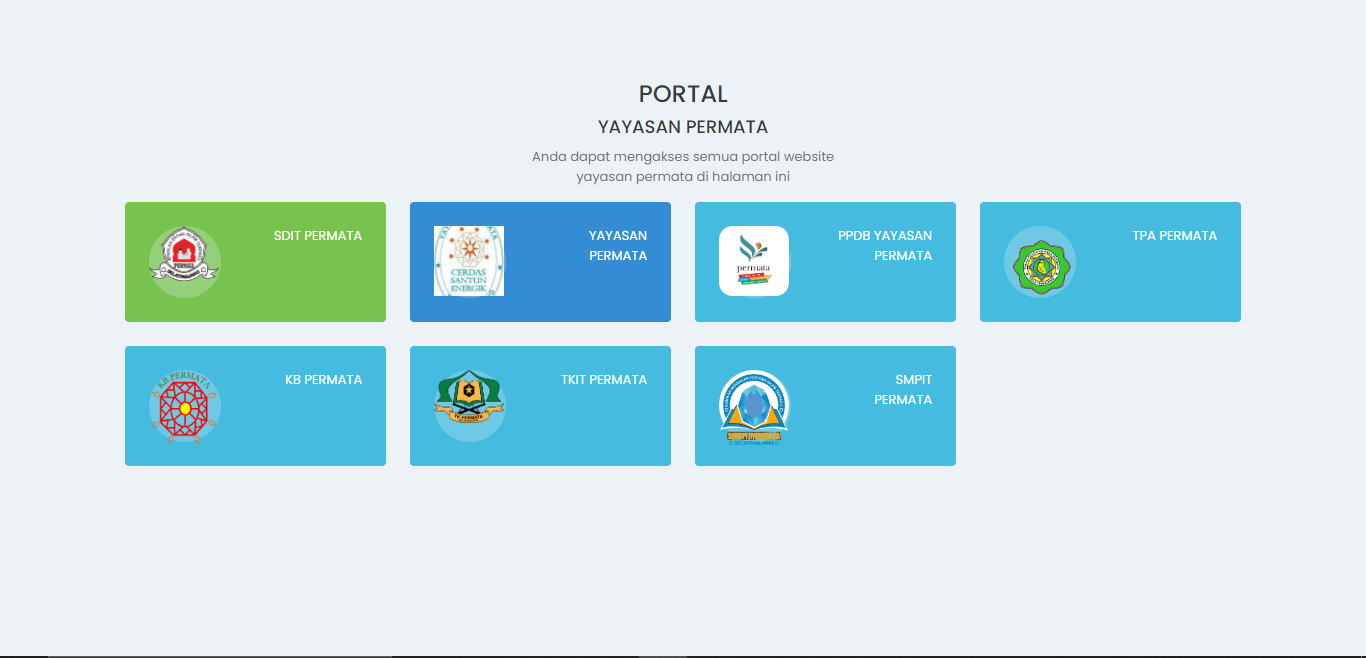
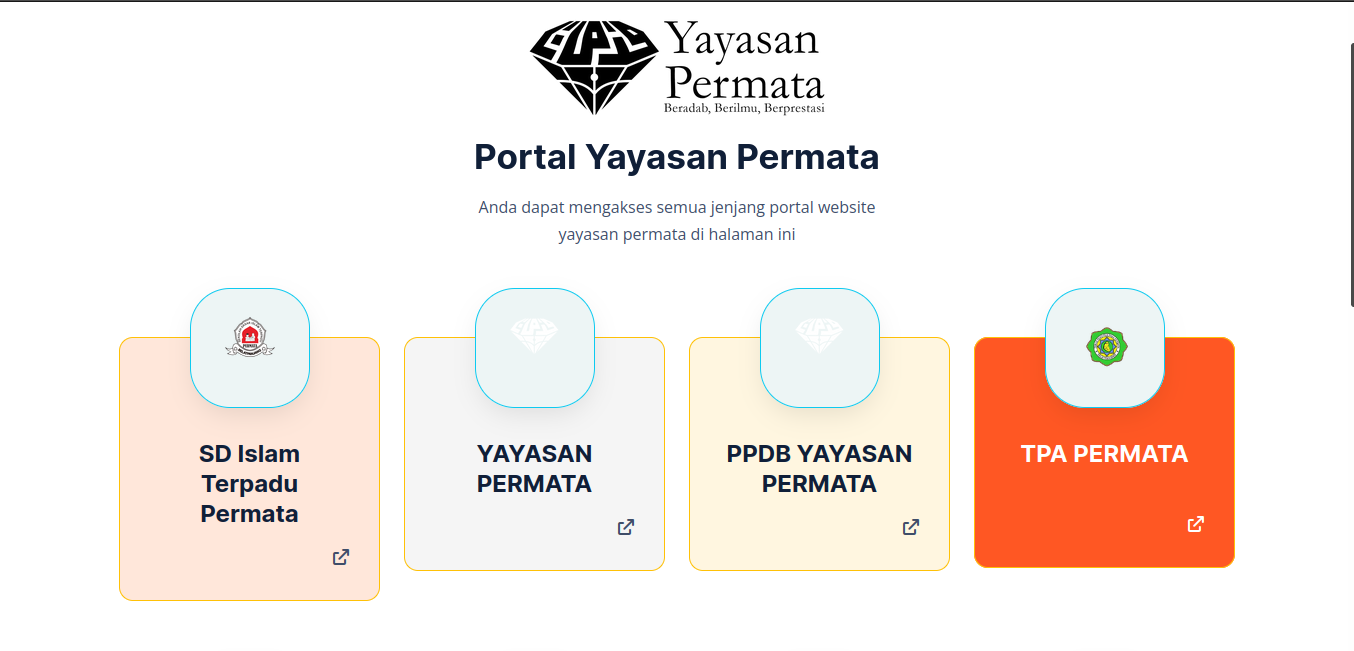
update card project dan footer

diff --git a/components/footer.tsx b/components/footer.tsx
@@ -1,41 +1,52 @@
+import { Heart } from "lucide-react";
+import { SiTelegram } from "react-icons/si";
+
 export default function Footer() {
-    return (
-        <section className="relative pt-20 pb-8 overflow-hidden">
-            <img className="absolute top-0 left-0 min-w-max xs:min-w-0 w-112 xs:w-full h-full" src="/orange-background.png" alt="" />
-            <div className="relative container px-4 mx-auto">
-                <div className="max-w-3xl mb-24 sm:mb-52 pr-8 sm:pr-0">
-                    <h1 className="font-heading text-4xl xs:text-5xl md:text-6xl font-semibold text-white mb-20">
-                        <span>Join &amp; Let&apos;s Build</span>
-                        <span className="font-serif italic">Magnificent</span>
-                        <span>Products</span>
-                    </h1>
-                    <div className="sm:flex items-center">
-                        <div className="sm:flex mb-6 sm:mb-0 sm:mr-12 items-center">
-                            <div className="flex mb-3 sm:mb-0 sm:mr-3 items-center justify-center w-12 h-12 bg-white rounded-full">
-                                <img src="/map-pin.svg" alt="" />
-                            </div>
-                            <div>
-                                <span className="block text-orange-50">1929, Bancangan, Sambit,</span>
-                                <span className="block text-orange-50">Wakanda Kidul</span>
-                            </div>
-                        </div>
-                        <div className="sm:flex items-center">
-                            <div className="flex mb-3 sm:mb-0 sm:mr-3 items-center justify-center w-12 h-12 bg-white rounded-full">
-                                <img src="/envelope.svg" alt="" />
-                            </div>
-                            <div>
-                                <span className="block text-orange-50">hello@yourdomain.com</span>
-                            </div>
-                        </div>
-                    </div>
-                </div>
-                <div className="pt-10 border-t-2 border-orange-400 border-opacity-50">
-                    <div className="sm:flex items-center justify-between">
-                        <span className="inline-block mb-4 sm:mb-0 text-gray-50">© All rights reserved</span>
-                        <div className="sm:flex mb-6 sm:mb-0 items-center"><a className="inline-block mr-6 sm:mr-12 text-orange-200 hover:text-orange-100" href="#">Terms &amp; Conditions</a><a className="inline-block text-orange-200 hover:text-orange-100" href="#">Privacy Policy</a></div>
-                    </div>
-                </div>
+  return (
+    <section className="relative pt-20 pb-8 overflow-hidden">
+      {/* <img className="absolute top-0 left-0 min-w-max xs:min-w-0 w-112 xs:w-full h-full" src="/orange-background.png" alt="" /> */}
+      <div className="relative container px-4 mx-auto">
+        <div className="max-w-3xl mb-24 sm:mb-52 pr-8 sm:pr-0">
+          <h1 className="font-heading text-4xl xs:text-5xl md:text-6xl font-semibold text-white mb-20">
+            <span>Contact Me</span>
+            <br />
+            <span className="font-serif italic">Anda Butuh Aplikasi ?</span>
+            <br />
+            <span>Mari Diskusi Sekarang</span>
+          </h1>
+          <div className="sm:flex items-center">
+            <div className="sm:flex mb-6 sm:mb-0 sm:mr-12 items-center">
+              <div className="flex mb-3 sm:mb-0 sm:mr-3 items-center justify-center w-12 h-12 bg-white rounded-full">
+                <img src="/map-pin.svg" alt="" />
+              </div>
+              <div>
+                <span className="block text-orange-50">
+                  Jalan Perumbi Gg. Antara RT 002 RW 002 Kota Selatpanjang
+                </span>
+                <span className="block text-orange-50">
+                  Kab.Kep. Meranti, Riau, Indonesia
+                </span>
+              </div>
             </div>
-        </section>
-    );
+            <div className="sm:flex items-center">
+              <div className="flex mb-3 sm:mb-0 sm:mr-3 items-center justify-center w-12 h-12 bg-white rounded-full">
+                <SiTelegram className="w-10 h-10 text-blue-700" />
+              </div>
+              <div>
+                <span className="block text-orange-50">@MisArianto</span>
+              </div>
+            </div>
+          </div>
+        </div>
+        <div className="pt-10 border-t-2 border-orange-400 border-opacity-50">
+          <div className="flex items-center justify-center">
+            <span className="text-gray-50">
+              Created with <Heart className="text-red-500 inline-block" /> Mis
+              Arianto
+            </span>
+          </div>
+        </div>
+      </div>
+    </section>
+  );
 }

diff --git a/components/project.tsx b/components/project.tsx
@@ -1,24 +1,72 @@
 import { MoveRight } from "lucide-react";
 import Image from "next/image";
 import Link from "next/link";
-import CardCertificate from "./card-certificate";
+import CardProject from "./card-project";
 
 export default function Project() {
 
   const polygonPoints =
     "63.1% 29.6%, 100% 17.2%, 76.7% 3.1%, 48.4% 0.1%, 44.6% 4.8%, 54.5% 25.4%, 59.8% 49.1%, 55.3% 57.9%, 44.5% 57.3%, 27.8% 48%, 35.1% 81.6%, 0% 97.8%, 39.3% 100%, 35.3% 81.5%, 97.2% 52.8%, 63.1% 29.6%";
 
-  const certificats: {
+  const projects: {
     title: string;
     href: string;
     gambar: string;
     description: string;
   }[] = [
     {
-      title: "Teknik Ethical Hacking dan Mengatasi Peretasan IT menggunakan Ilmu Ethical Hacking bagi Cyber Security Specialist, Pentester dan White Hat Hacker",
-      href: "/certificate/2022/how-to-attract-more-traffic-to-our-website",
-      gambar: "/img/certificate/cyber1.jpg",
-      description: "Teknik Ethical Hacking dan Mengatasi Peretasan IT menggunakan Ilmu Ethical Hacking bagi Cyber Security Specialist, Pentester dan White Hat Hacker",
+      title: "E-Planning",
+      href: "https://sipd.merantikab.go.id/e-planning/",
+      gambar: "/img/apps/e-planning.png",
+      description: "Aplikasi yang menginovasi proses musrenbang kelurahan, musrenbang kecamatan, forum Organisasi Perangkat Daerah (OPD), pokok-pokok pikiran dewan, musrenbang Kabupaten/Kota, hingga terbentuk rancangan RKPD yang lebih transparan, cepat, terintegrasi, konsisten dan sesuai dengan aturan yang berlaku.",
+    },
+    {
+      title: "DIKEMAS",
+      href: "https://dikemas.merantikab.go.id/",
+      gambar: "/img/apps/dikemas.png",
+      description: "Survei Kepuasan Masyarakat (SKM) adalah kegiatan pengukuran secara komprehensif tingkat kepuasan masyarakat terhadap kualitas layanan yang diberikan oleh penyelenggara pelayanan publik. Indeks Kepuasan Masyarakat (IKM) adalah hasil pengukuran dari kegiatan Survei Kepuasan Masyarakat berupa angka.",
+    },
+    {
+      title: "Smart City Meranti",
+      href: "https://smartcity.merantikab.go.id/",
+      gambar: "/img/apps/smartcity.png",
+      description: "SmartCity Meranti berbasis GIS (Geographic Information System) atau sistem informasi geografis adalah alat berbasis komputer untuk memetakan dan menganalisis hal-hal yang ada dan peristiwa-peristiwa yang terjadi di bumi. Teknologi GIS mengintegrasikan database umum dengan operasi seperti kueri dan analisis statistik dengan visualisasi unik. GIS juga dapat menampilkan aspek geografis serta manfaat analisis yang ditawarkan oleh peta.",
+    },
+    {
+      title: "E-P3KE",
+      href: "https://ep3ke.merantikab.go.id/",
+      gambar: "/img/apps/epke3.png",
+      description: "Aplikasi Pengukuran dan pengambil kebijakan terhadap kemiskinan ekstrim yang berbasis GIS sehingga terlihat peningkatan dan penurunan Miskin Ekstrim dari hasil analisa menggunakan sistem EP3KE, hasil analisa dari sistem ini bisa menghasilkan sebaran desa yang masih tinggi angka miskin ekstrim serta melihat hasil evaluasi anggaran sudah tepat sasaran atau belum dari realisasi anggaran yang sudah tersedia",
+    },
+    {
+      title: "YAYASAN PERMATA",
+      href: "https://yayasanpermata.com/",
+      gambar: "/img/apps/yayasanpermata.png",
+      description: "Portal Yayasan, Sekolah, PPDB, SPP, Absensi, dan Penggajian",
+    },
+    {
+      title: "E-Sakip",
+      href: "http://e-sakip.merantikab.go.id/",
+      gambar: "/img/apps/e-sakip.png",
+      description: "Sistem Akuntabilitas Kinerja Instansi Permerintah Daerah",
+    },
+    {
+      title: "SITAMAN",
+      href: "http://sitaman.merantikab.go.id/",
+      gambar: "/img/apps/sitaman.png",
+      description: "Sistem Informasi Taging dan Mandatori",
+    },
+    {
+      title: "ES-KRIM",
+      href: "http://es-krim.merantikab.go.id/",
+      gambar: "/img/apps/es-krim.png",
+      description: "Elektronik Sistem Klinik Riset dan Inovasi Meranti berisi hasil kajian dan inovasi daerah",
+    },
+    {
+      title: "Toko Online",
+      href: "https://cu-pick-online.vercel.app/",
+      gambar: "/img/apps/tokoline.png",
+      description: "Toko Online yang dibangun dengan Next.js, Tailwindcss, Redux, Typescript",
     },
   ];
 
@@ -34,10 +82,10 @@ export default function Project() {
             </div>
 
             <div className="flex flex-wrap -mx-4 md:-mx-6 items-center">
-              {/* {certificats.length > 0 &&
-                certificats.map((item: any, index: number) => (
-                  <CardCertificate key={index} {...item} />
-                ))} */}
+              {projects.length > 0 &&
+                projects.map((item: any, index: number) => (
+                  <CardProject key={index} {...item} />
+                ))}
             </div>
           </div>
         </div>

diff --git a/components/contact.tsx b/components/contact.tsx
@@ -20,7 +20,7 @@ export default function Contact() {
                 <img className="block mx-auto mb-3" src="/icon-orange-email.svg" alt="" />
                 <h5 className="text-2xl font-bold text-gray-900 mb-3">Contact Us</h5>
                 <p className="text-gray-500 mb-3">Contact us to seek help from us, we will help you as soon as possible</p>
-                <span className="block text-sm text-orange-900 mb-8">hello@yourdomain.com</span>
+                <span className="block text-sm text-orange-900 mb-8">Mis Arianto</span>
                 <a className="relative group inline-block py-4 px-6 text-white font-semibold bg-orange-900 rounded-full overflow-hidden" href="#">
                   <div className="absolute top-0 right-full w-full h-full bg-gray-900 transform group-hover:translate-x-full group-hover:scale-102 transition duration-500"></div>
                   <div className="relative flex items-center justify-center">
@@ -41,7 +41,7 @@ export default function Contact() {
                 <img className="block mx-auto mb-3" src="/icon-orange-headphones.svg" alt="" />
                 <h5 className="text-2xl font-bold text-gray-900 mb-3">Customer Service</h5>
                 <p className="text-gray-500 mb-3">Contact us to seek help from us, we will help you as soon as possible</p>
-                <span className="block text-sm text-orange-900 mb-8">+08 128 903427</span>
+                <span className="block text-sm text-orange-900 mb-8">+08</span>
                 <a className="relative group inline-block py-4 px-6 text-white font-semibold bg-orange-900 rounded-full overflow-hidden" href="#">
                   <div className="absolute top-0 right-full w-full h-full bg-gray-900 transform group-hover:translate-x-full group-hover:scale-102 transition duration-500"></div>
                   <div className="relative flex items-center justify-center">

diff --git a/components/card-project.tsx b/components/card-project.tsx
@@ -18,7 +18,7 @@ import {
     TooltipTrigger,
 } from "@/components/ui/tooltip"
 
-interface ProjectType {
+interface CertificateType {
     title: string;
     href: string;
     gambar: string;
@@ -26,7 +26,7 @@ interface ProjectType {
 }
 
 
-export default function CardProject(props: ProjectType) {
+export default function CardProject(props: CertificateType) {
 
     const { title, href, gambar, description } = props
 
@@ -58,7 +58,7 @@ export default function CardProject(props: ProjectType) {
             </DialogTrigger>
             <DialogContent className="sm:max-w-[800px] h-[600px] overflow-y-auto">
             <Image className="block w-full border border-spacing-10 border-primary rounded-lg" src={gambar} width={800} height={800} loading="lazy" alt="" />
-            <h6 className="text-xl text-primary-foreground dark:text-primary font-bold mb-1">{title}</h6>
+            <h6 className="text-xl text-primary-foreground dark:text-primary font-bold mb-1"> {description}</h6>
             </DialogContent>
         </Dialog>
 

diff --git a/app/page.tsx b/app/page.tsx
@@ -83,7 +83,7 @@ export default function Home() {
       <TechStack />
       <Certificate />
       <Project />
-      <Contact />
+      {/* <Contact /> */}
       <Footer />
     </>
   )
